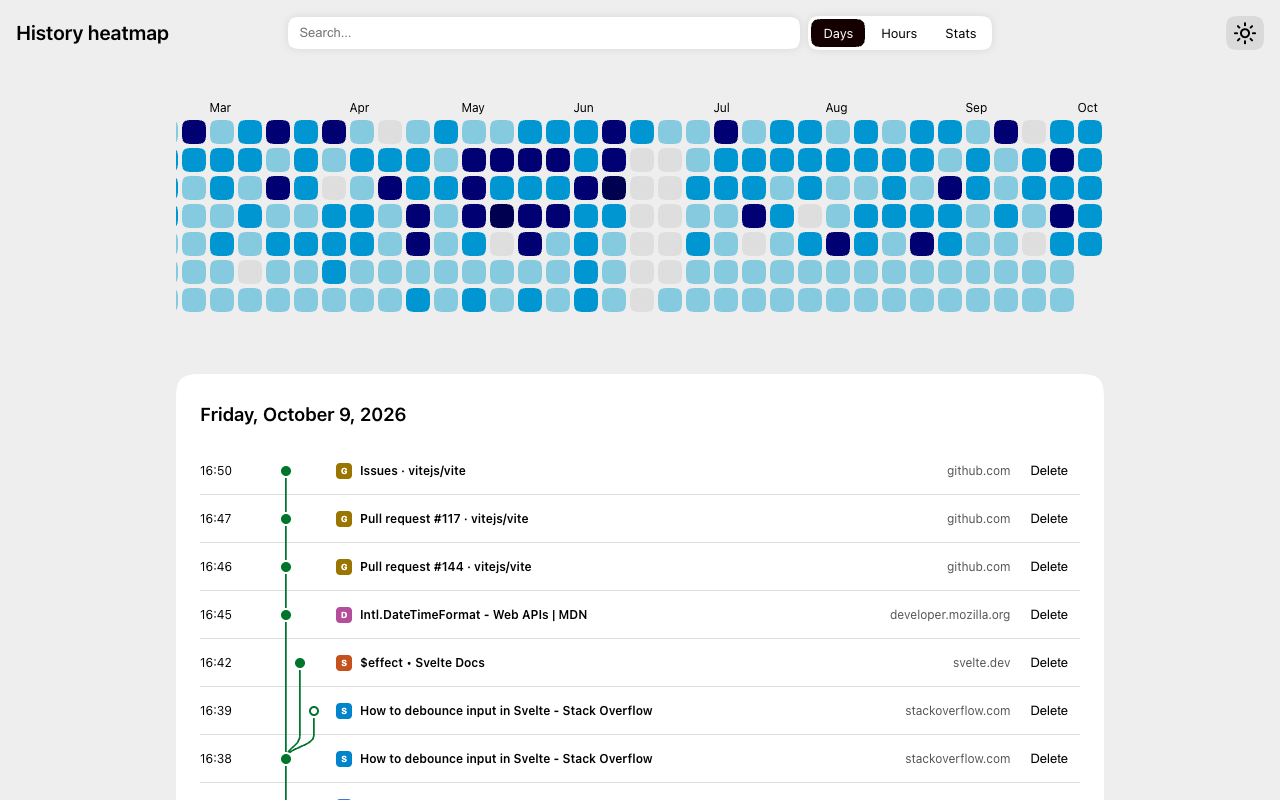
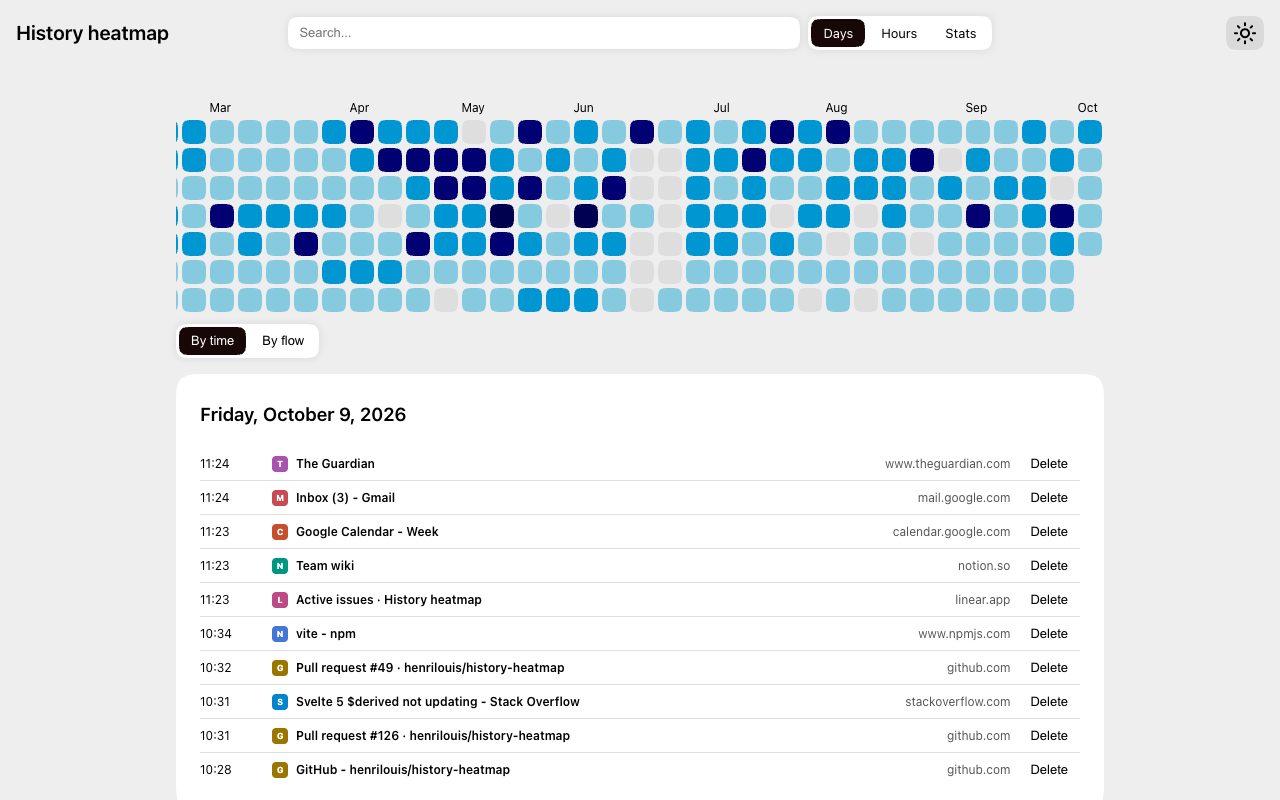
docs: describe grouping by time or by flow

diff --git a/docs/history.md b/docs/history.md
@@ -40,20 +40,33 @@ between consumers and removed when the last consumer disconnects.
   successful Retry so they cannot create a partial heatmap. Clearing all history
   establishes an authoritative empty baseline, from which new visits can sync.
 
-## Navigation trails
+## Flows
 
-The graph connects visits using Chrome's recorded `referringVisitId`, with colors
-identifying browsing trails rather than tabs. The list stays newest-first, so
-newer visits branch upward from older referrers. Hollow dots mark `reload`
-transitions, which Chrome also uses for restored pages and reopened tabs.
+**By flow** groups the visits in view (the search results, or the selected days
+or hours) into cards in these steps:
 
-Each day/time card has a static graph with at most **five connection lanes**;
-an extra lane can hold nodes when those lanes are occupied. Solid connections
-span at most **80 rows**. Tunnel shadows mark known connections outside the card
-or search results, or connections condensed because of these limits.
+1. **Trails.** Visits are linked through Chrome's recorded `referringVisitId`,
+   which covers links, reloads, restored pages, and reopened tabs. A trail is
+   every visit that leads back to the same first visit. Links are taken from all
+   loaded history, so a visit hidden by the search or selection never splits a
+   trail. Unknown, self-referencing, and future referrers stay unlinked, and a
+   deleted visit removes its links.
+2. **Idle splits.** A trail quiet for more than **one hour** ends, so a tab
+   revisited later starts a new flow.
+3. **Same website.** Flows whose main website is the same and that follow
+   within **30 minutes** of each other join, such as pages of one site typed in
+   separately. Flows with a search never join on the search engine, so separate
+   searches stay apart.
+4. **Other visits.** Flows of at most **two visits** that follow within
+   **30 minutes** of each other pool into one **Other visits** card, so a burst
+   of unrelated pages doesn't become a card each. A small flow without
+   neighbours keeps its own card.
 
-Unknown referrers remain unconnected. Filtering and deletion never create
-inferred shortcuts through missing visits. Navigation metadata comes from the
-existing visit requests and requires no additional permissions. Each graph row
-has an accessible label describing its relationships, and graph dimensions use
-`rem` so they scale with the root font size.
+Cards and their visits are newest first. A card is titled by the first search
+on it, recognised as in Stats, or else its most visited website, and shows its
+time span and number of visits. Its identity follows its earliest visit, so a
+growing flow keeps its place while history syncs. Navigation metadata comes
+from the existing visit requests and requires no additional permissions.
+
+The grouping is part of the page URL (`#/days?group=flow`), kept when switching
+views, and changing it doesn't add a history entry.

diff --git a/README.md b/README.md
@@ -31,19 +31,19 @@ the deepest rabbit hole, and top searches. Websites group by host, with `www.`
 merged into the bare domain. Averages span every day in the loaded history,
 including days without visits.
 
-### Navigation trails
+### By time or by flow
 
-A subway-style graph connects visits using Chrome's recorded referring visits.
-Colors identify browsing trails, not tabs; branches show one visit leading to
-others. The list stays newest-first, with newer visits branching upward. Hollow
-dots mark reloads, which can also represent restored pages or reopened tabs.
-Tunnel shadows indicate known connections outside the current card or search
-results, or connections condensed to keep the graph compact. Unknown referrers
-remain unconnected. The graph includes accessible labels and requires no
-additional permissions.
+The switch above the history list groups visits into cards **By time** (one
+card per day, or per selected day or hour) or **By flow**. A flow is a stretch
+of browsing: pages opened from one another, using Chrome's recorded referring
+visits, joined with nearby visits to the same website. Each flow card is titled
+by the search it started with or its main website, and shows when it happened.
+A burst of small, unrelated visits, such as several pages opened at once, is
+pooled into one **Other visits** card. Flows respect the search and the selected
+days or hours, and the choice is kept in the page URL.
 
 See [history behavior](docs/history.md) for loading guarantees, synchronization,
-and navigation graph limits.
+and how flows are formed.
 
 ## Development
 
@@ -85,7 +85,7 @@ npm run dev
 ### Testing and CI
 
 Tests live alongside source files and cover history loading, synchronization,
-deletion, calendar/date handling, navigation trails, and UI interactions.
+deletion, calendar/date handling, flow grouping, and UI interactions.
 Chrome APIs are mocked; tests do not access your browsing history.
 
 CI runs tests in UTC, Los Angeles, Tokyo, and São Paulo, plus type checks,
